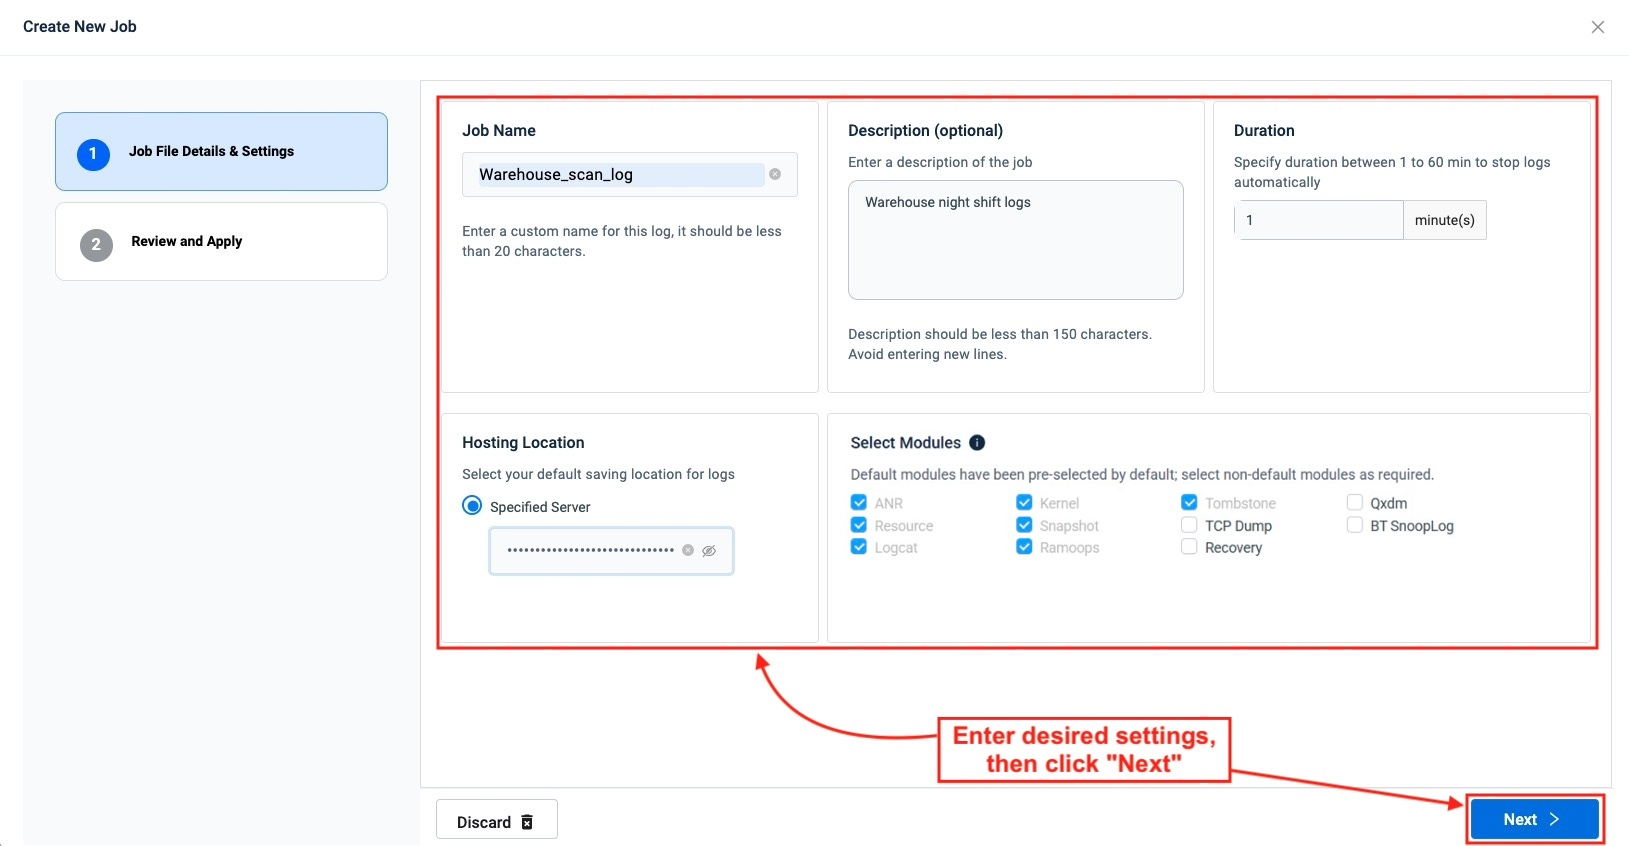
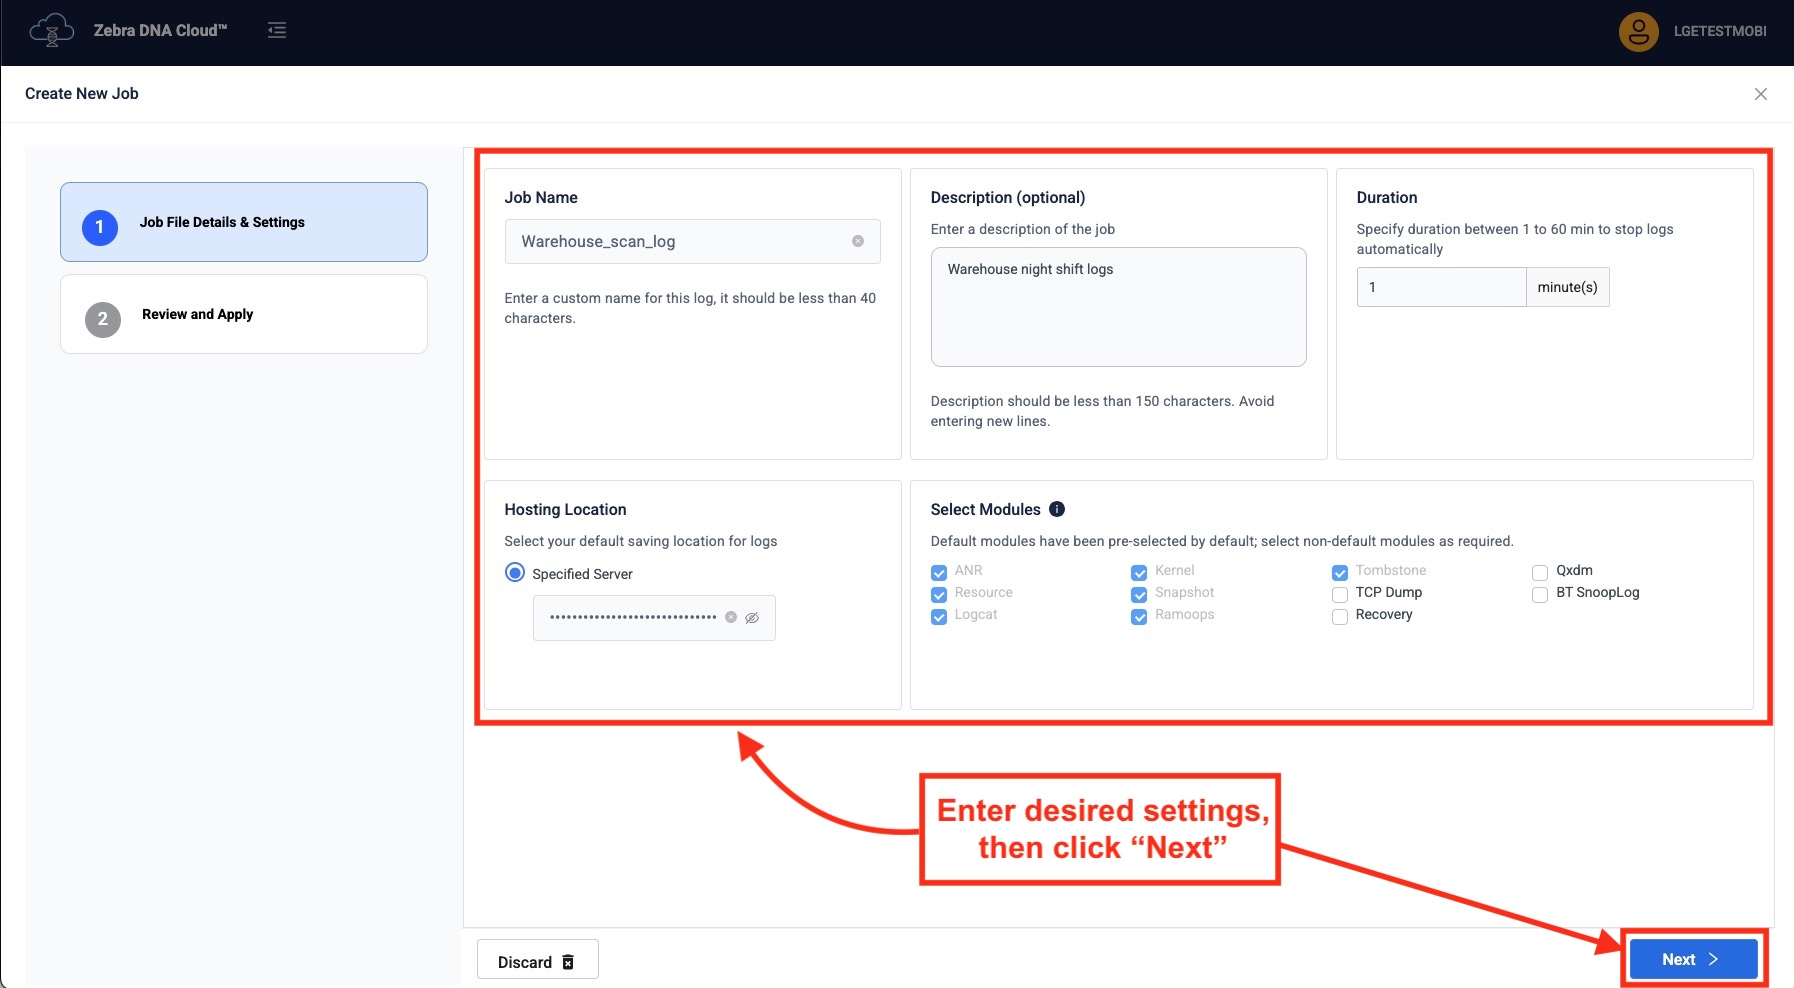
[DLM-64783/DLM-64784 + More] ZDNA 5.10 - Android Updates, Setup Name, etc.

diff --git a/zebradna/5-10/about/index.html b/zebradna/5-10/about/index.html
@@ -465,6 +465,8 @@
 <ul>
 <li><code>NEW</code> Editing and deleting a group name now functions correctly when no devices are linked to that group. </li>
 
+<li><code>NEW</code> The pagination feature for the security patch date on the My Devices page functions improperly when a filter is applied. </li>
+
 <li><strong>Status now correctly shows as “In-Progress”</strong> after reapplying a device-setting or app-setup Profile.</li>
 
 <li>App Setup Profiles created with DNA Cloud 5.2 (or older) no longer require modification** for compatibility with devices running Android 14.</li>
@@ -518,8 +520,6 @@ _Click image to enlarge; ESC to exit_.
 <ul>
 <li>Entering invalid data when configuring advanced device settings results in an error when exporting the corresponding barcode PDF file(s). </li>
 
-<li>The pagination feature for the security patch date on the My Devices page functions improperly when a filter is applied. </li>
-
 <li>All devices enrolled in DNA Cloud are configured to enable "LifeGuard Over the Air," regardless of whether opting into the service during enrollment.</li>
 
 <li><strong>Results when filtering the “Status” column are sometimes reset or displayed incorrectly</strong> after navigating to another tab and returning to the filtered tab.</li>
@@ -566,6 +566,8 @@ _Click image to enlarge; ESC to exit_.
 <li>If already enrolled, generate a new barcode using ZDNA 3.11 or later, re-enroll and update to the latest BSP.</li>
 
 <li>If not already enrolled, generate a new barcode using ZDNA 3.11 or later and update to the latest BSP.</li>
+
+<li><strong>For profiles created before ZDNA v5.7, the "Setup Name" column in the "Apps" tab of the "Device Details" page displays blank entries.</strong> To resolve this, go to <strong>My Apps &gt; App Setup,</strong> locate the profile, click <strong>Edit Assignment</strong> and select <strong>Apply</strong> to redeploy it.</li>
 </ul>
 
 <!-- 8/13/24- removed per DLM-38206

diff --git a/zebradna/5-10/usage/index.html b/zebradna/5-10/usage/index.html
@@ -1480,6 +1480,8 @@ Status changes from "In-Progress" to "Completed" once data collection for the cu
 <li><strong>When a Master Profile is created with multiple Sub-profiles</strong> (e.g., Sub-profile 1, Sub-profile 2, etc.), all devices are initially assigned to the first Sub-profile. They are then transferred to the appropriate subsequent sub-profiles once deployment from the first sub-profile has been successfully completed.</li>
 
 <li><strong>Ensure that the app version specified in the Profile Deployment or in the Group associated with the Master Profile is compatible with the Android platform.</strong> Otherwise, deployment will fail.</li>
+
+<li><strong>When a device is removed from a Sub-profile, the Master Profile status does not automatically update to reflect the change (it does not change to "Draft" status).</strong> To display the correct Master Profile status, manually remove the device from the Master Profile.</li>
 </ul>
 
 <p><i class="fa fa-exclamation-triangle" style="color:#FFA500;"></i> <strong>For additional Master Profile restrictions, see <a href="../setup/#servercapacities">Server Capacities table</a></strong>. </p>
@@ -2186,7 +2188,7 @@ When all updates are selected, <strong>click "Next" to proceed</strong>:
 
 <p><br> 
 After setting desired schedule, <strong>click "Next"</strong> to proceed:
-<img alt="image" style="height:350px" src="android_update_06a.png">
+<img alt="image" style="height:350px" src="android_update_06a.jpg">
 <em>Click image to enlarge; ESC to exit.</em>
 <br></p>
 

diff --git a/zebradna/5-10/support/rxlogger/index.html b/zebradna/5-10/support/rxlogger/index.html
@@ -335,7 +335,7 @@ ZDNA 5.10 (and later) supports logs collected from devices to be stored on a cus
 &nbsp;&nbsp;&nbsp; a. <strong>Job Name</strong> (max. 40 characters)<br>
 &nbsp;&nbsp;&nbsp; b. <strong>Description</strong> (to help identify the job later)<br>
 &nbsp;&nbsp;&nbsp; c. <strong>Duration</strong> (length of time to collect log data)<br>
-&nbsp;&nbsp;&nbsp; d. <strong>Hosting Location</strong> (Zebra Storage or an FTP/S server URL with read/write access) <a href="#ftpsserverurlsyntax">Details below</a>.<br>
+&nbsp;&nbsp;&nbsp; d. <strong>Hosting Location</strong> (FTP/S server URL with read/write access) <a href="#ftpsserverurlsyntax">Details below</a>.<br>
 &nbsp;&nbsp;&nbsp; e. <strong>Logging Modules</strong> (type of data to collect in addition to defaults) (<a href="/rxlogger/latest/guide/modules">See module info</a>)<br>
 When all data is entered, <strong>click "Next" to continue</strong>:
 <img alt="" style="height:350px" src="44_rxlog_04a.jpg">
